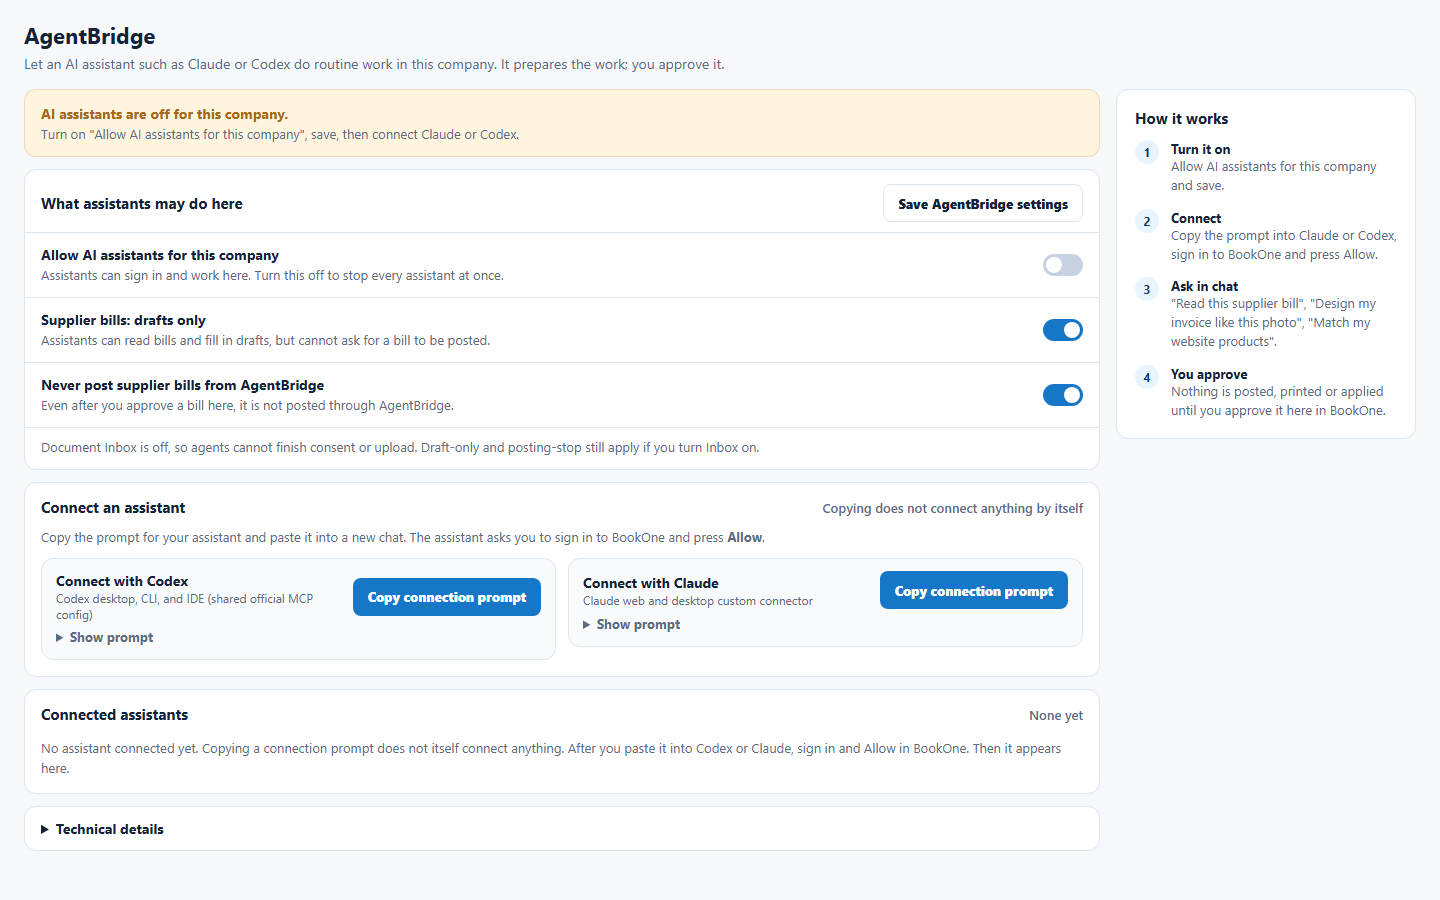
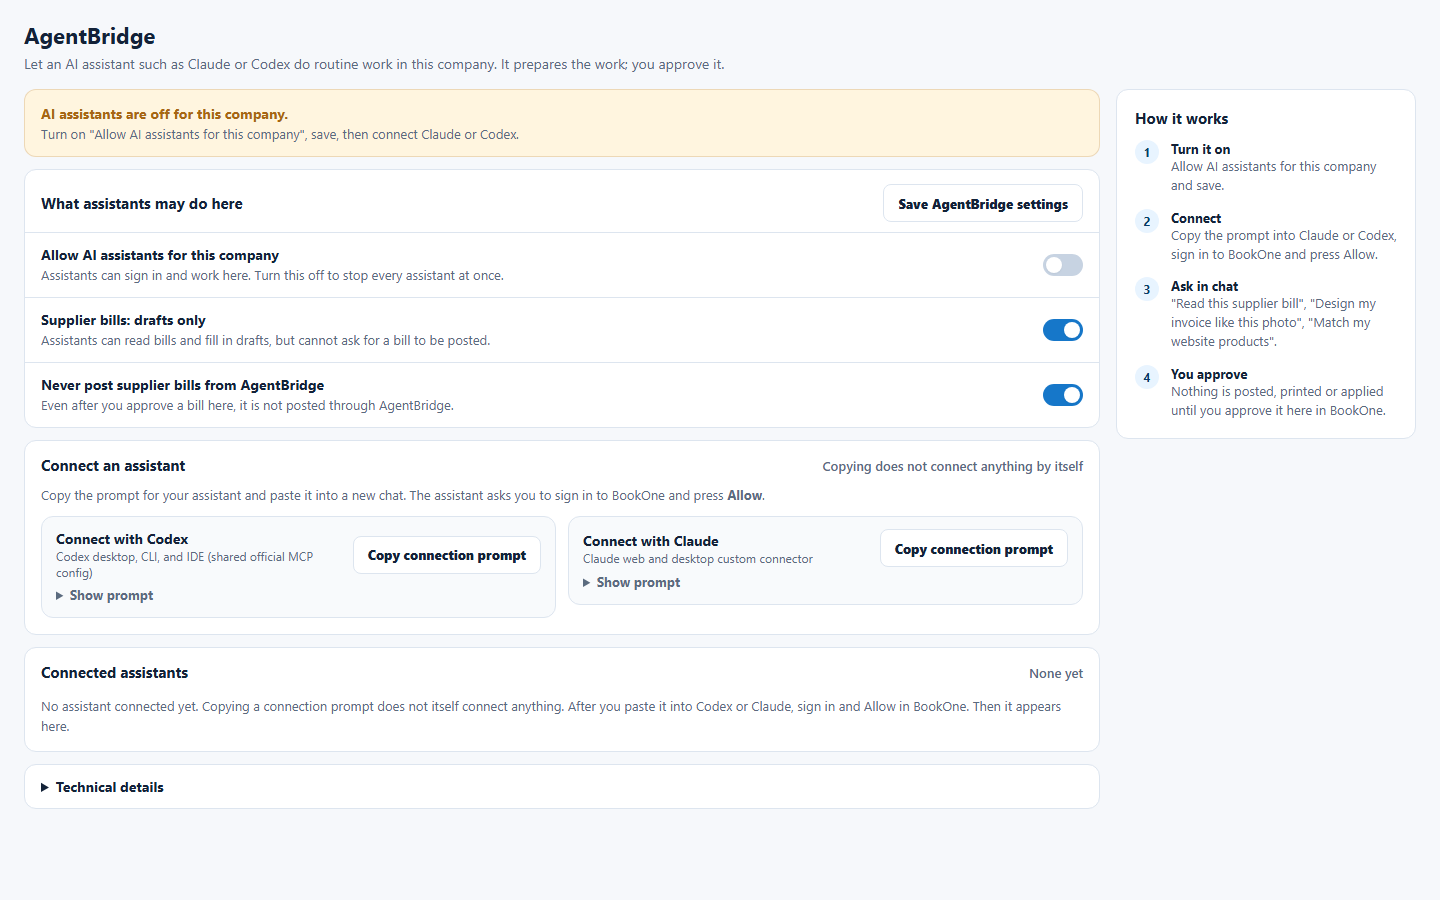
fix: keep the Jobs screen contract wording; update its source check (v2.31.1)

Changed region(s): [[0.0312, 0.4667, 0.75, 0.9333], [0.5625, 0.56, 0.75, 0.6844], [0.5625, 0.4978, 0.75, 0.5289]]

diff --git a/apps/web/src/components/team/team-jobs-screen.tsx b/apps/web/src/components/team/team-jobs-screen.tsx
@@ -77,7 +77,7 @@ export function TeamJobsScreen({
 
   function selectRole(id: string) {
     if (id === roleId) return;
-    if (dirty && !window.confirm('You have unsaved changes to this job. Leave without saving?')) return;
+    if (dirty && !window.confirm('You have unsaved job changes. Leave this job without saving?')) return;
     router.push(`/company/team/jobs?role=${id}`);
   }
   function set(key: string, v: Level) {
@@ -195,7 +195,7 @@ export function TeamJobsScreen({
               </div>
               <div className="jobs-bar">
                 <span className={dirty ? 'is-dirty' : ''} role="status">
-                  {dirty ? 'You have unsaved changes to this job.' : 'Saved.'}
+                  {dirty ? 'You have unsaved job changes.' : 'Saved.'}
                 </span>
                 <Button variant="primary" type="submit" disabled={!dirty}>
                   Save job

diff --git a/apps/web/e2e/agent-bridge-01.spec.ts b/apps/web/e2e/agent-bridge-01.spec.ts
@@ -48,7 +48,9 @@ test('source routes exist for inbox, API, MCP and posting adapter', () => {
   expect(nav).toMatch(/Document Inbox/);
   expect(nav).not.toMatch(/TileSuiteNav|NavModeToggle/);
   expect(jobs).toMatch(/key=\{roleId\}/);
-  expect(jobs).toMatch(/value=\{levels\[s\.keyPrefix\]/);
+  // Each screen's control is driven by the levels state (three-way No access / View / Edit since v2.31.0).
+  expect(jobs).toMatch(/levels\[s\.keyPrefix\] \?\? s\.level/);
+  expect(jobs).toMatch(/checked=\{value === l\.v\}/);
   expect(jobs).toMatch(/unsaved job changes/i);
 });
 

diff --git a/docs/changes/CHG-20261127-people-jobs-tooltips.md b/docs/changes/CHG-20261127-people-jobs-tooltips.md
@@ -46,3 +46,15 @@ Status: ready for the owner's staging review.
 ## Rollback
 
 Revert the commit. Server actions and data are unchanged.
+
+## v2.31.1: CI fix
+
+**What failed.** The "Docker web image" job failed on `1c75a80` in the AgentBridge CoreGuard browser set. In `e2e/agent-bridge-01.spec.ts`, a source-pattern check pinned the old Jobs screen:
+- a select with `value={levels[s.keyPrefix]…}`;
+- the phrase "unsaved job changes".
+
+**What changed.** The behaviour is the same in the new screen: each control is driven by the `levels` state, and the leave-without-saving guard is kept.
+- The "unsaved job changes" wording is restored in the guard and the save bar.
+- The pinned pattern is updated in the same commit to the three-way control: `levels[s.keyPrefix] ?? s.level` and `checked={value === l.v}`.
+
+**Local result.** The full CI browser set passed 40 of 40, twice. AgentBridge-01, connect and consent, UI-NAV-01, DB-01, COA-01 and UI-02 all passed.

diff --git a/docs/PROJECT_STATUS.md b/docs/PROJECT_STATUS.md
@@ -1,3 +1,7 @@
+## 2026-11-27 — CI fix for the Jobs screen source check (v2.31.1)
+
+See [CHG-20261127-people-jobs-tooltips](changes/CHG-20261127-people-jobs-tooltips.md).
+
 ## 2026-11-27 — People and Jobs simplified; one sidebar tooltip; docs bubble stays on screen (v2.31.0)
 
 Team and Groups merged into People; Jobs is a Company tab with plain descriptions and No access / View / Edit controls. See [CHG-20261127-people-jobs-tooltips](changes/CHG-20261127-people-jobs-tooltips.md).

diff --git a/docs/TASK_LOG.md b/docs/TASK_LOG.md
@@ -1,3 +1,7 @@
+## 2026-11-27 — CI fix for the Jobs screen source check (v2.31.1)
+
+See [CHG-20261127-people-jobs-tooltips](changes/CHG-20261127-people-jobs-tooltips.md).
+
 ## 2026-11-27 — People and Jobs simplified; one sidebar tooltip; docs bubble stays on screen (v2.31.0)
 
 Team and Groups merged into People; Jobs is a Company tab with plain descriptions and No access / View / Edit controls. See [CHG-20261127-people-jobs-tooltips](changes/CHG-20261127-people-jobs-tooltips.md).
